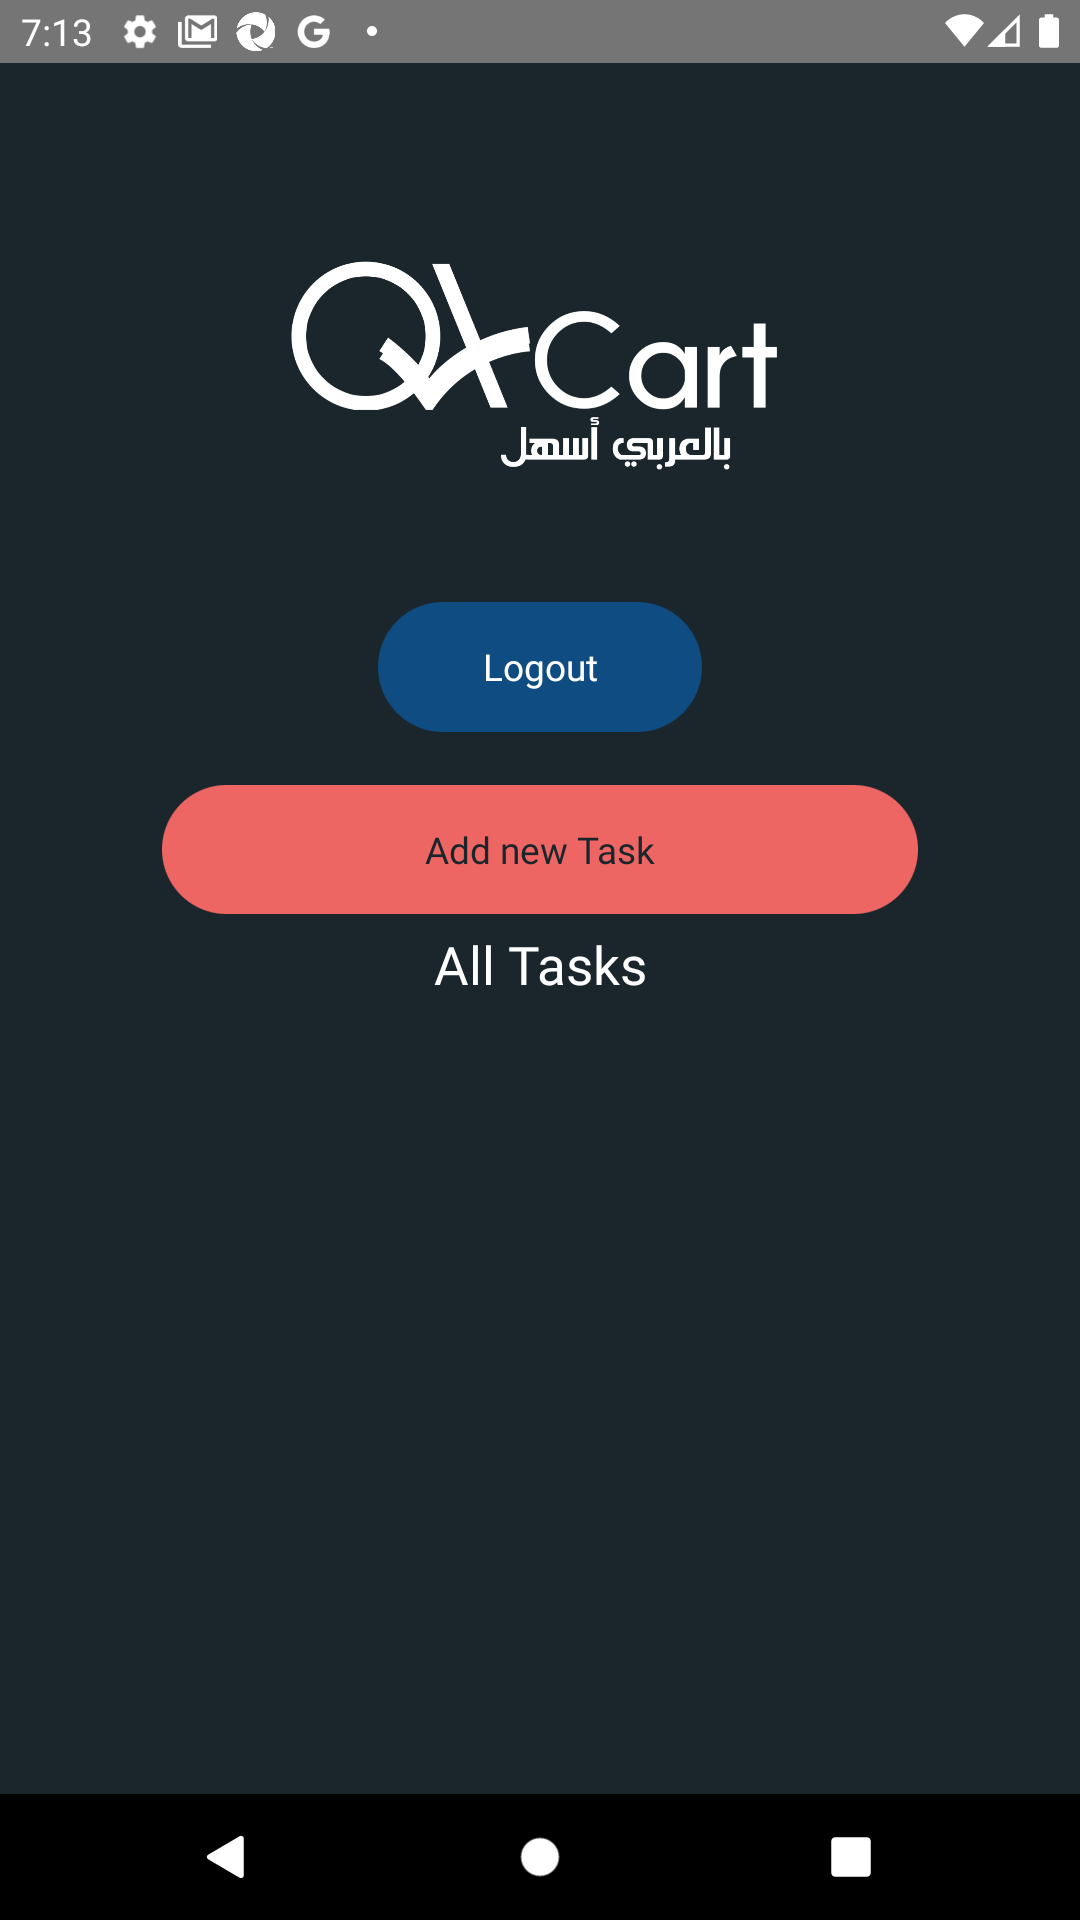
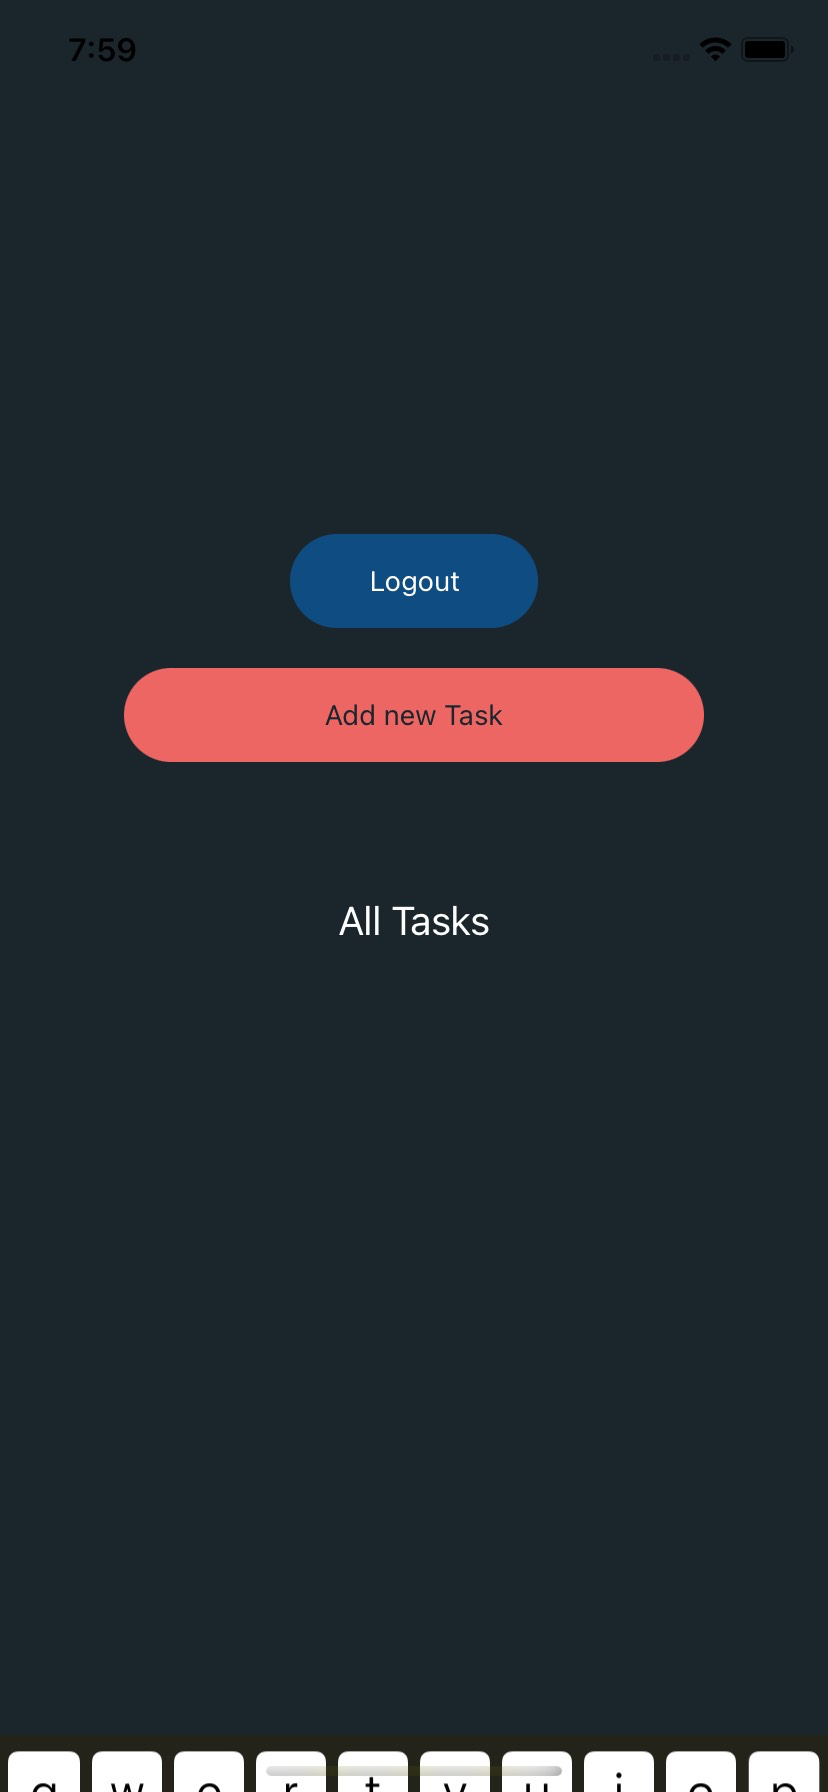
Change platform

diff --git a/Reports/index.html b/Reports/index.html
@@ -53,7 +53,7 @@
 					<i class='mdi-hardware-desktop-windows'></i>
 				</li>
 				<li>
-					<span class='suite-started-time'>2021-01-15 19:13:18</span>
+					<span class='suite-started-time'>2021-01-15 19:59:42</span>
 				</li>
 				<li>
 					<span>v2.41.1</span>
@@ -83,25 +83,25 @@
 					<div class='col l2 m4 s12'>
 						<div class='card suite-total-time-current'> 
 							<span class='panel-name'>Total Time Taken (Current Run)</span> 
-							<span class='suite-total-time-current-value panel-lead'>0h 0m 12s+75ms</span> 
+							<span class='suite-total-time-current-value panel-lead'>0h 0m 7s+597ms</span> 
 						</div> 
 					</div>
 					<div class='col l2 m4 s12'>
 						<div class='card suite-total-time-overall'> 
 							<span class='panel-name'>Total Time Taken (Overall)</span> 
-							<span class='suite-total-time-overall-value panel-lead'>0h 0m 12s+75ms</span> 
+							<span class='suite-total-time-overall-value panel-lead'>0h 0m 7s+597ms</span> 
 						</div> 
 					</div>
 					<div class='col l2 m4 s6 suite-start-time'>
 						<div class='card accent green-accent'> 
 							<span class='panel-name'>Start</span> 
-							<span class='panel-lead suite-started-time'>2021-01-15 19:13:06</span> 
+							<span class='panel-lead suite-started-time'>2021-01-15 19:59:34</span> 
 						</div> 
 					</div>
 					<div class='col l2 m4 s6 suite-end-time'>
 						<div class='card accent pink-accent'> 
 							<span class='panel-name'>End</span> 
-							<span class='panel-lead suite-ended-time'>2021-01-15 19:13:18</span> 
+							<span class='panel-lead suite-ended-time'>2021-01-15 19:59:42</span> 
 						</div> 
 					</div>
 				</div>
@@ -241,7 +241,7 @@
 						<div class='card-panel no-padding-h no-padding-v no-margin-v'>
 							<div class='wrapper'>
 								<ul id='test-collection' class='test-collection'>
-										<li class='collection-item test displayed active pass ' extentid='dee99322-c56f-46e1-9aeb-27e3c7f475c0'>
+										<li class='collection-item test displayed active pass ' extentid='777143a3-a8ee-4232-95d5-b9246b0e5aa4'>
 											<div class='test-head'>
 												<span class='test-name'>TC001_Login_With_Valid_Credentials </span>
 												<span class='test-status label right outline capitalize pass'>pass</span>
@@ -249,9 +249,9 @@
 											</div>
 											<div class='test-body'>
 												<div class='test-info'>
-													<span title='Test started time' alt='Test started time' class='test-started-time label green lighten-1 text-white'>2021-01-15 19:13:06</span>
-													<span title='Test ended time' alt='Test ended time' class='test-ended-time label red lighten-1 text-white'>2021-01-15 19:13:18</span>
-													<span title='Time taken to finish' alt='Time taken to finish' class='test-time-taken label blue-grey lighten-3 text-white'>0h 0m 11s+852ms</span>
+													<span title='Test started time' alt='Test started time' class='test-started-time label green lighten-1 text-white'>2021-01-15 19:59:34</span>
+													<span title='Test ended time' alt='Test ended time' class='test-ended-time label red lighten-1 text-white'>2021-01-15 19:59:42</span>
+													<span title='Time taken to finish' alt='Time taken to finish' class='test-time-taken label blue-grey lighten-3 text-white'>0h 0m 7s+389ms</span>
 												</div>
 												<div class='test-desc'></div>
 												<div class='test-attributes'>
@@ -268,17 +268,17 @@
 														<tbody>
 																<tr>
 																	<td class='status info' title='info' alt='info'><i class='mdi-action-info-outline'></i></td>
-																	<td class='timestamp'>19:13:06</td>
-																	<td class='step-details'>Platform Name: Android --> Device Name: NewEmulator</td>
+																	<td class='timestamp'>19:59:34</td>
+																	<td class='step-details'>Platform Name: iOS --> Device Name: iPhone 11</td>
 																</tr>
 																<tr>
 																	<td class='status pass' title='pass' alt='pass'><i class='mdi-action-check-circle'></i></td>
-																	<td class='timestamp'>19:13:18</td>
+																	<td class='timestamp'>19:59:42</td>
 																	<td class='step-details'>TC001_Login_With_Valid_Credentials</td>
 																</tr>
 																<tr>
 																	<td class='status info' title='info' alt='info'><i class='mdi-action-info-outline'></i></td>
-																	<td class='timestamp'>19:13:18</td>
+																	<td class='timestamp'>19:59:42</td>
 																	<td class='step-details'><a href='../ScreenShots/TC001_Login_With_Valid_Credentials.png' data-featherlight='image'><img class='report-img' src='../ScreenShots/TC001_Login_With_Valid_Credentials.png' /></a></td>
 																</tr>
 														</tbody>
